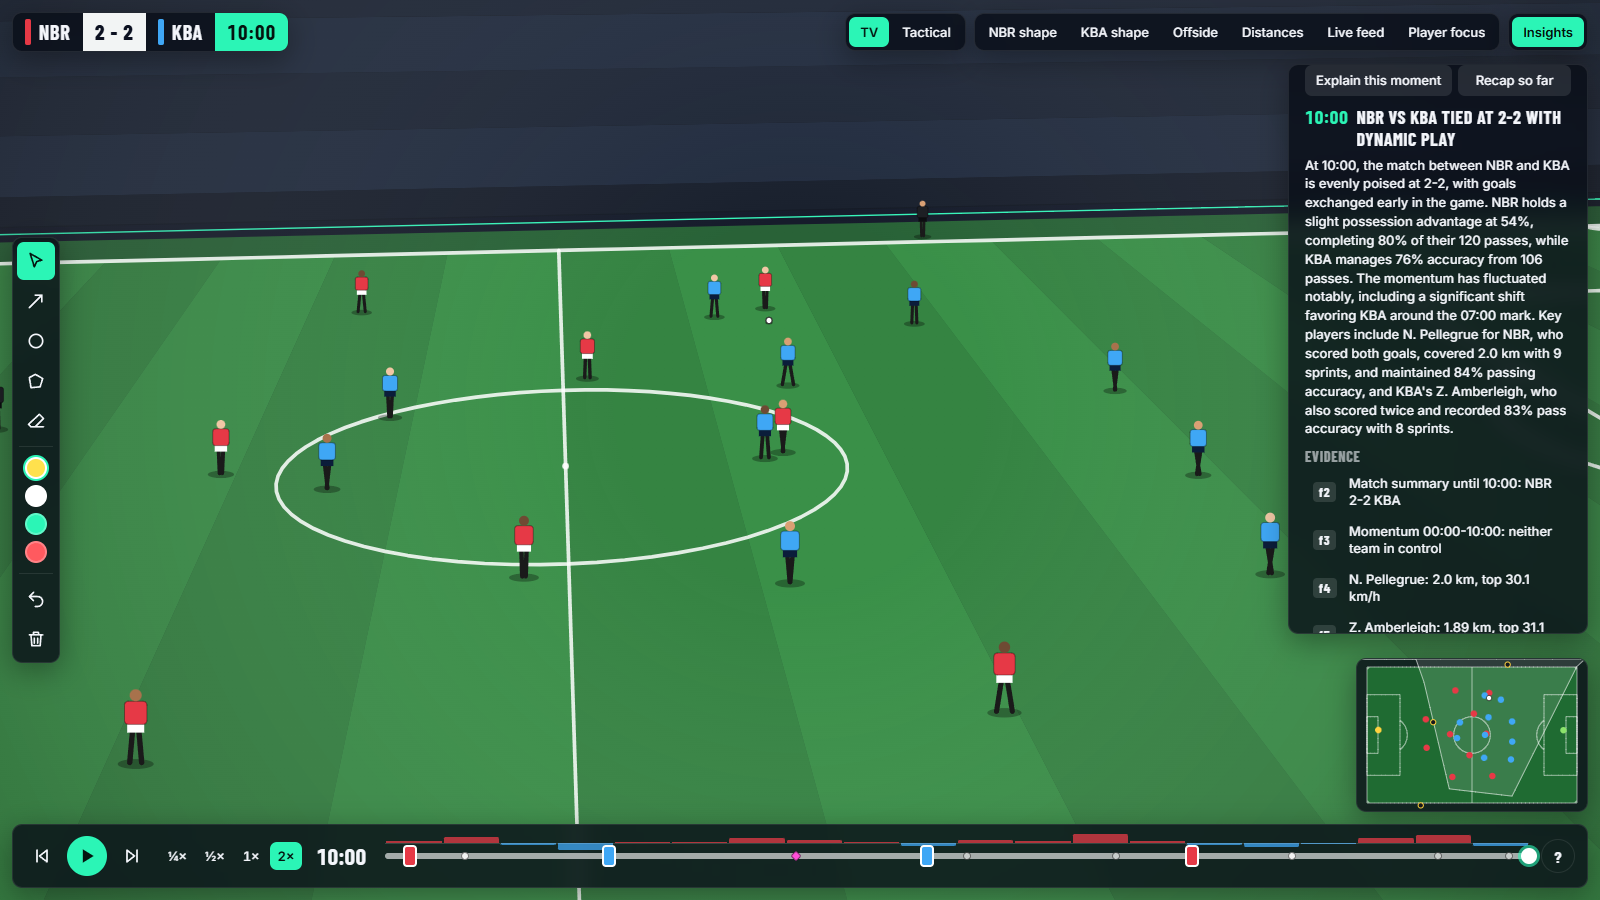
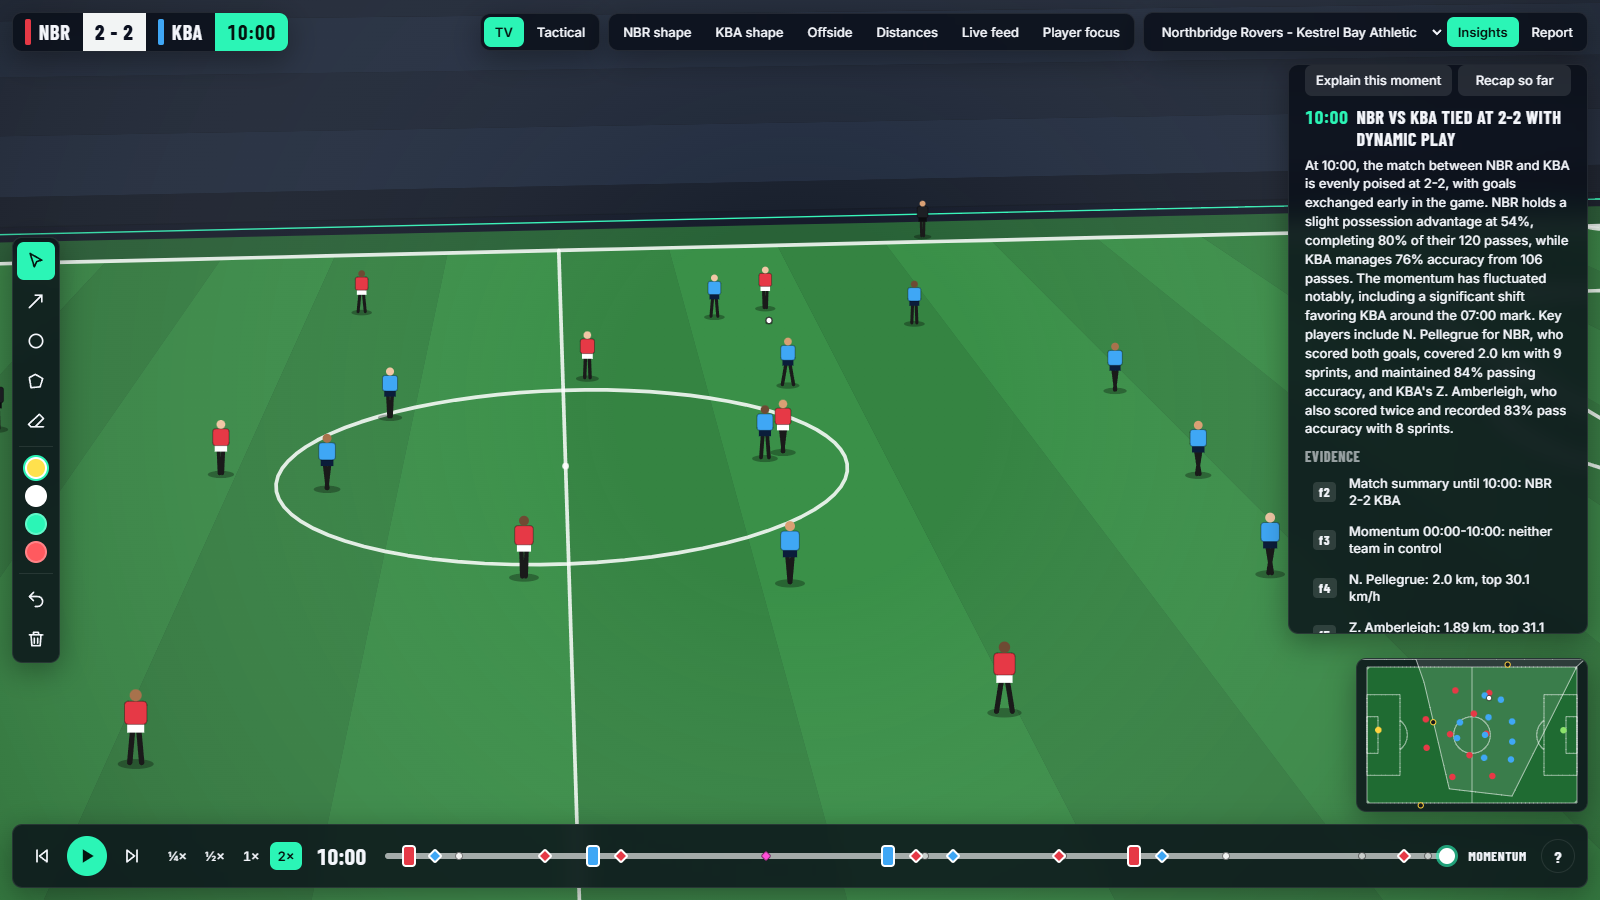
README, screenshots and demo video for scenarios, possession chart and match reports
- README: the four matches, possession dynamics chart, match report panel and
  LaTeX PDF, report API and build, updated shortcuts, layout and limitations.
- New screenshots (from the live site): possession chart, report statistics and
  maps, the counter-attack scenario.
- Demo scripts: Edge is attached over CDP (new Edge builds no longer start in
  Playwright's pipe mode); the video opens on a scenario, switches matches behind
  a card, and shows the possession chart and the report; mix.mjs takes VOICE_DIR
  and leaves lines without a recording silent for drafts.

diff --git a/README.md b/README.md
@@ -4,11 +4,10 @@
 Built for the Microsoft x Premier League **Inside the Game** hackathon
 (challenge: *The Synthetic Match Insights Engine for Premier League Studio*).
 
-**Live demo:** [pitchlens-studio-5169.azurewebsites.net](https://pitchlens-studio-5169.azurewebsites.net) · **Video:** [youtu.be/P8NhUwjZ3bE](https://youtu.be/P8NhUwjZ3bE)
+**Live demo:** [pitchlens-studio-5169.azurewebsites.net](https://pitchlens-studio-5169.azurewebsites.net) · **Video:** [youtu.be/P8NhUwjZ3bE](https://youtu.be/P8NhUwjZ3bE) · **Sample report:** [PDF](https://pitchlens-studio-5169.azurewebsites.net/reports/demo/report.pdf)
 
 > Everything shown runs on **synthetic, football-realistic data** that we generate
-> ourselves: fictional teams (Northbridge Rovers vs Kestrel Bay Athletic), fictional
-> players, no real clubs, crests, names or footage.
+> ourselves: fictional teams, fictional players, no real clubs, crests, names or footage.
 
 ![Broadcast view with tracked players](docs/img/tv-tracking.png)
 
@@ -23,16 +22,21 @@ viewer the same way, whether they are a data-hungry analyst or a casual fan.
 
 It follows the challenge's pipeline end to end: **ingest** synthetic events as the
 match plays, **interpret** them into statistics, **explain** why a moment matters,
-**render** it on screen next to the match, and **personalize** it per viewer.
+**render** it on screen next to the match, and **personalize** it per viewer. After
+the final whistle it also writes the **match report**.
 
 | | |
 |---|---|
 | ![Offside line](docs/img/offside.png) | ![Tactical view with team shapes and drawings](docs/img/tactical-shapes.png) |
 | **Telestration studio.** TV, tactical and 3D views with smooth transitions. Click players for rings, trails and speed/distance cards; formation lines, offside line, distances; arrows, circles and zones stay on the grass in every view. | **Tactics at a glance.** Both teams' shapes, the pundit's own drawings, and a minimap of what the camera shows. |
-| ![Player focus and live feed](docs/img/focus-feed.png) | ![AI analyst with evidence and agent trace](docs/img/ai-analyst.png) |
-| **Live feed and player focus.** Cards while the match plays: goals, saves, offsides, through balls with a 1-5 pass difficulty rating, sprint alerts above 30 km/h, distance milestones, momentum swings. Player focus makes the camera follow one player with a live stat card. | **AI analyst.** *Explain this moment* and *Recap so far*, answered by four agents on Microsoft Foundry, with the evidence behind every sentence and the trace of how it was produced. |
-| ![Same moment for a Polish fan](docs/img/ai-fan-pl.png) | ![Match recap](docs/img/ai-recap.png) |
-| **Personalized.** The same verified facts for an analyst or a fan, a favourite club and player, in English, Polish or Spanish. | **Recaps and control vs chaos.** A momentum strip above the timeline shows who controlled each spell (possession, territory, chance quality); the agents use the same tool to explain swings. |
+| ![Player focus and live feed](docs/img/focus-feed.png) | ![A counter-attack scenario](docs/img/scenario-transition.png) |
+| **Live feed and player focus.** Cards while the match plays: goals, saves, offsides, through balls with a 1-5 pass difficulty rating, sprint alerts above 30 km/h, distance milestones, momentum swings. Player focus makes the camera follow one player with a live stat card. | **Four matches.** A full demo match and three scenarios, each with its own teams and formations: a possession battle, an offside-heavy attack and a counter-attacking side. Switch between them from the top bar. |
+| ![Possession dynamics chart](docs/img/momentum-chart.png) | ![AI analyst with evidence and agent trace](docs/img/ai-analyst.png) |
+| **Possession dynamics (M).** Who controls the ball, second by second (15 s window), with the peaks marked and the playhead lined up with the timeline. | **AI analyst.** *Explain this moment* and *Recap so far*, answered by four agents on Microsoft Foundry, with the evidence behind every sentence and the trace of how it was produced. |
+| ![Same moment for a Kestrel Bay fan in Polish](docs/img/ai-fan-pl.png) | ![Match recap](docs/img/ai-recap.png) |
+| **Personalized.** The same verified facts for an analyst or a fan, a favourite club and player, in English, Polish or Spanish. | **Recaps.** The story of the match so far: score, chances, possession, the biggest swing in control, the decisive players. |
+| ![Match report: team statistics](docs/img/report.png) | ![Match report: shot map and average positions](docs/img/report-maps.png) |
+| **Match report.** Team statistics, momentum, top players and key moments (click one to jump there). | **Maps and PDF.** Shot map (marker size = xG), average positions, heat maps per team, and a downloadable PDF typeset in LaTeX. |
 
 ## How the AI analyst works
 
@@ -60,30 +64,39 @@ flowchart LR
 - **Explainer**: 2 to 4 sentences on *why* the moment matters (3 to 5 for a recap);
   every sentence cites the ids of its facts.
 - **Verifier**: code checks that every number, clock time and player name appears
-  in the cited facts, then the model checks the logic (wrong team, a tackle called
-  an interception...). Problems go back to the Explainer once; sentences that are
-  still unsupported are dropped.
+  in the facts, then the model checks the logic (wrong team, a tackle called an
+  interception...). Problems go back to the Explainer once; sentences that are
+  still unsupported are dropped. The trace shows every revision.
 - **Personalizer**: rewrites the verified text for the viewer without adding facts,
   and its output is checked again.
 
 **Reliability.** Each step falls back to fact-backed templates if the model fails,
-so the endpoint always answers. A 38 s budget bounds every request, answers are
-cached, and key moments can be precomputed with the real
-model (`api/precompute.py`) for instant, repeatable results. Every request logs the
-agents' status and timing for Application Insights.
+so the endpoint always answers. A 38 s budget bounds every request, a model error
+(for example a rate limit) is retried once and never cached, and the demo match's
+key moments and recaps are precomputed with the real model (`api/precompute.py`)
+for instant, repeatable answers. Every request logs the agents' status and timing
+for Application Insights.
 
 **Responsible AI.** The model only receives structured parameters (time, style,
 language, player id), never free text from the public, the deployment uses Azure AI
 Content Safety filters, and every claim on screen is traceable to a computed fact.
 
+## Match reports
+
+`scripts/build_reports.py` turns each match into a report at build time: the same
+fact tools produce the statistics, matplotlib draws the momentum chart, shot map,
+average positions and heat maps, and `pdflatex` typesets them into `report.pdf`.
+The studio's **Report** panel shows it live (`GET /api/report?dataset=…`, plus
+`/api/report.tex` and `/api/report.pdf`), with the PDF one click away.
+
 ## Microsoft technologies
 
 | | |
 |---|---|
-| **Microsoft Foundry** (Azure OpenAI) | model deployment behind the four agents: tool calling and JSON outputs |
-| **Azure App Service** (Linux, Python 3.11) | one standard-library server for the studio and `/api/explain` (agents, tools, verifier) |
+| **Microsoft Foundry** (Azure OpenAI) | `gpt-4.1-mini` deployment behind the four agents: tool calling and JSON outputs |
+| **Azure App Service** (Linux, Python 3.11) | one standard-library server for the studio, `/api/explain` and `/api/report` |
 | **Application Insights** | per-request agent trace (status, timing, model calls, tokens) |
-| **GitHub Actions** | tests the agents, builds the studio and deploys to App Service on every push |
+| **GitHub Actions** | tests the agents, builds the reports (matplotlib + LaTeX) and the studio, and deploys to App Service on every push |
 
 ## Data
 
@@ -91,7 +104,15 @@ Organisers distribute no match data, so we built our own (`pitchlens_synth/`): 2
 players and the ball simulated at 50 Hz and recorded at 10 Hz, formations that
 shift with the ball, walking to sprinting, offside-aware runs, passes (through and
 lofted), shots with xG, saves, tackles, interceptions, offsides, restarts and
-officials. The demo match (seed 20, 10 minutes, 2-2) is reproducible from its seed.
+officials. Every match is reproducible from its seed:
+
+| match | teams | formations | result |
+|---|---|---|---|
+| demo (seed 20) | Northbridge Rovers vs Kestrel Bay Athletic | 4-3-3 vs 4-4-2 | 2-2 |
+| possession battle (seed 7) | Harbour City FC vs Redwood Athletic | 4-2-3-1 vs 4-4-2 | 0-0 |
+| offside attack (seed 42) | Silverlake United vs Eastgate Borough | 4-3-3 vs 4-2-3-1 | 0-1 |
+| transition attack (seed 99) | Pinecrest Wanderers vs Golden Vale SC | 4-4-2 vs 4-3-3 | 1-0 |
+
 All sources share one format, documented in [`docs/schema.md`](docs/schema.md).
 
 Our CV pipeline (`pitchlens_cv/`: YOLOv8 detection, ByteTrack tracking, team colours,
@@ -103,7 +124,7 @@ published, deployed or shown in the demo.
 ## Run it locally
 
 ```bash
-python api/server.py            # AI analyst API on :7071 (standard library only)
+python api/server.py            # AI analyst and report API on :7071 (standard library only)
 cd web
 npm install
 npm run dev                     # studio on http://localhost:5173
@@ -112,6 +133,8 @@ npm run dev                     # studio on http://localhost:5173
 On Windows, `start.bat` starts both. Without model settings the analyst answers
 from its templates; to use the model, copy `api/local.settings.example.json` to
 `api/local.settings.json` and fill in the Foundry endpoint, key and deployment.
+For the report figures and PDF: `pip install matplotlib`, a LaTeX distribution, then
+`python scripts/build_reports.py`.
 
 Tests (no Azure needed; a scripted model exercises the Verifier's revision loop):
 
@@ -124,21 +147,23 @@ Deployment to Azure: [`docs/deploy.md`](docs/deploy.md). Screenshots and the dem
 video are scripted in `scripts/demo/`.
 
 **Shortcuts:** Space play/pause · ←/→ 5 s · Shift+←/→ key moments · 1/2 views ·
-V A C Z E tools · O offside · D distances · L live feed · F player focus · ? help.
+V A C Z E tools · O offside · D distances · L live feed · F player focus ·
+M possession dynamics · ? help.
 
 ## Repository layout
 
 | path | what |
 |---|---|
 | `pitchlens_synth/` | synthetic match generator |
-| `web/` | studio (Vite + TypeScript + canvas 2D, no framework) |
-| `api/` | `server.py` (studio + `/api/explain`), agents, tools, verifier, templates, tests |
+| `web/` | studio (Vite + TypeScript + canvas 2D, no framework); demo and scenario data in `web/public/data/` |
+| `api/` | `server.py` (studio, `/api/explain`, `/api/report`), agents, tools, verifier, templates, report rendering, tests |
 | `pitchlens_cv/` | CV pipeline for local video (detection, tracking, calibration, export) |
-| `scripts/` | `build_site.py` (App Service package), `demo/` scripted screenshots and video (Playwright, ffmpeg) |
+| `scripts/` | `build_reports.py` (LaTeX/PDF reports), `build_site.py` (App Service package), `demo/` scripted screenshots and video |
 | `docs/` | data format, deployment guide, screenshots |
 
 ## Known limitations
 
 - The synthetic match models behaviour, not physics: no dribbles or fouls, few corners.
 - Events are replayed from a file in real time; the format is ready for a live stream.
-- Recaps are computed as of whole half-minutes so they can be precomputed.
+- Recaps are computed as of whole half-minutes so they can be precomputed; answers
+  for the three scenarios are generated live.
